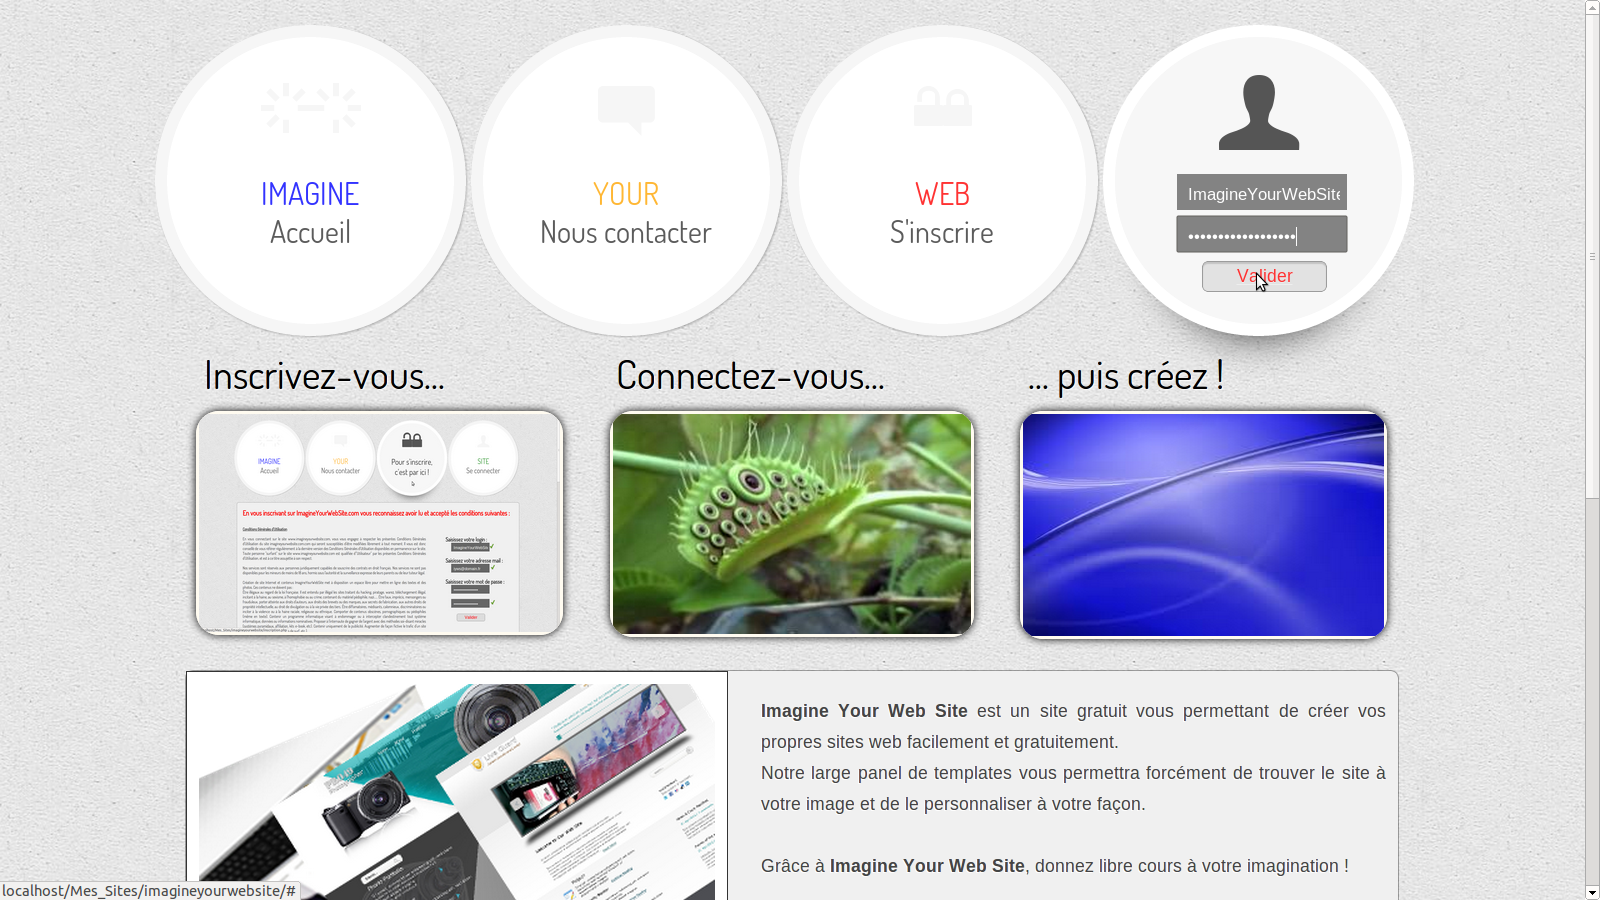
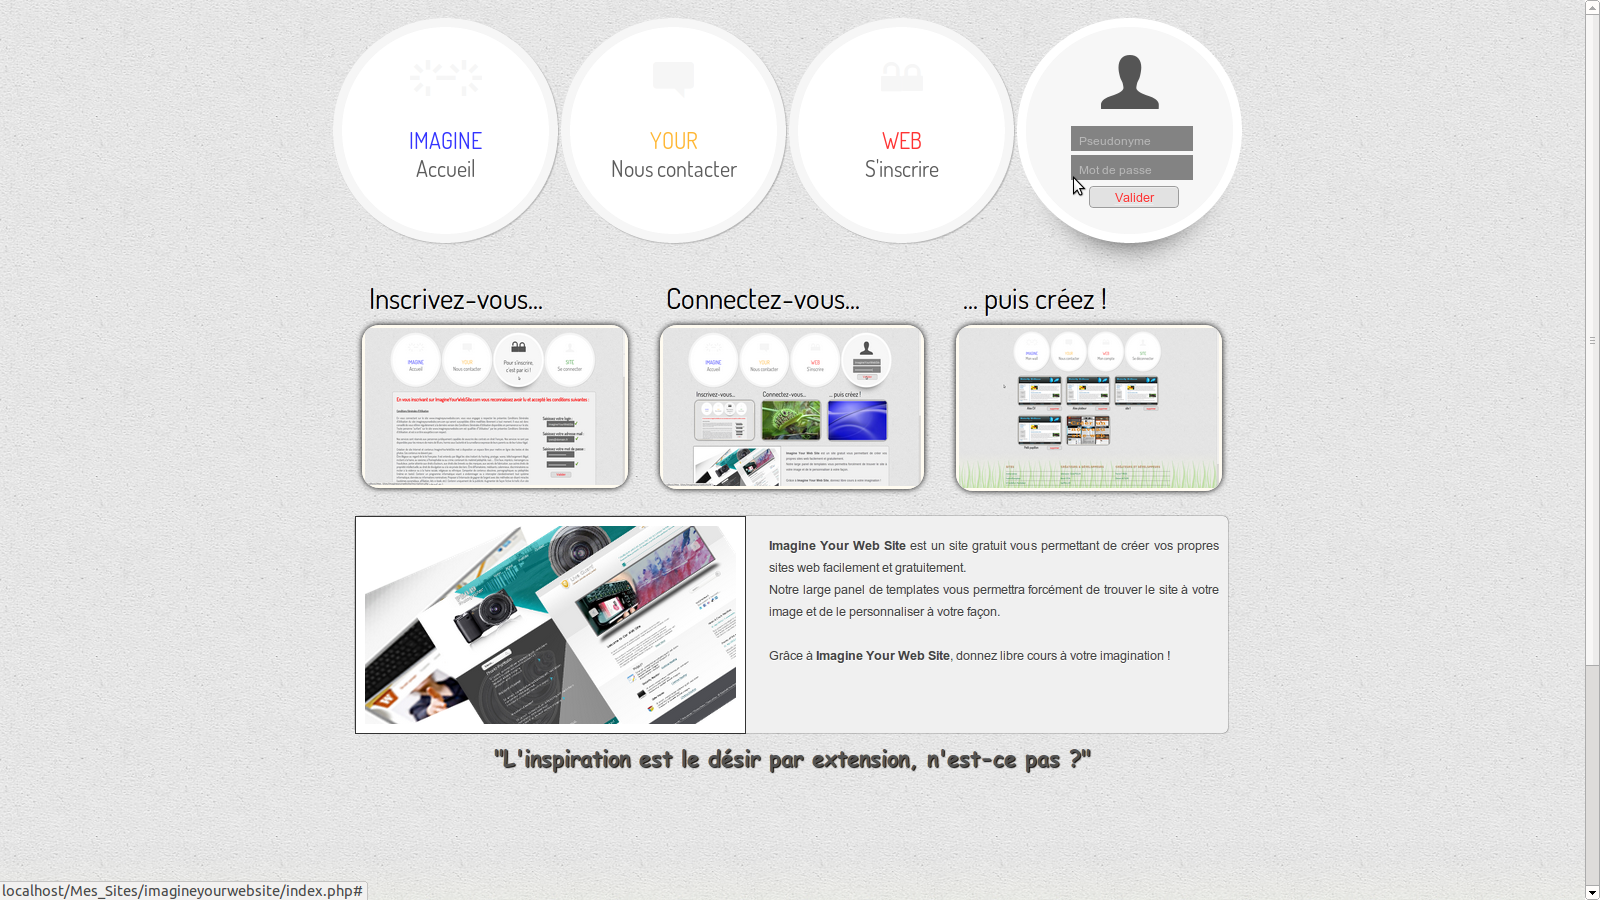
Projet tuteuré 1ère version finie et fonctionnelle

diff --git a/Generateur/js/webSite.js b/Generateur/js/webSite.js
@@ -45,6 +45,128 @@ function replaceInfo()
 
 function modifyField( id, text )
 {
-    var tab = ["title", "tagline", "sidebar", "section", "footer-outer-block"];
-    document.getElementById(tab[id]).innerHTML = text;
+    responseText = text.replace(/ /g, '&nbsp;');
+    responseText = responseText.replace(/\n/g, '<br />');
+    responseText = responseText.replace("<img&nbsp;src=", '<img src=');
+    document.getElementById(id).innerHTML = responseText;
+}
+
+
+//===================================================
+//               modifyBold( id )
+//---------------------------------------------------
+// Permet d'insérer les balises pour mettre les
+// caractères en gras.
+// id : valeur de l'id recherché
+// Appel : onClick(this.value) -> ../webSite.php
+//===================================================
+
+function modifyBold( id )
+{
+    document.getElementById(id).value += "<b></b>";
+}
+
+
+//===================================================
+//               modifyItalic( id )
+//---------------------------------------------------
+// Permet d'insérer les balises pour mettre les
+// caractères en italic.
+// id : valeur de l'id recherché
+// Appel : onClick(this.value) -> ../webSite.php
+//===================================================
+
+function modifyItalic( id )
+{
+    document.getElementById(id).value += "<em></em>";
+}
+
+
+//===================================================
+//               modifyUnderline( id )
+//---------------------------------------------------
+// Permet d'insérer les balises pour souligner les
+// caractères.
+// id : valeur de l'id recherché
+// Appel : onClick(this.value) -> ../webSite.php
+//===================================================
+
+function modifyUnderline( id )
+{
+    document.getElementById(id).value += "<u></u>";
+}
+
+
+//===================================================
+//               modifyImage( id )
+//---------------------------------------------------
+// Permet d'insérer les balises pour ajouter une
+// image.
+// id : valeur de l'id recherché
+// Appel : onClick(this.value) -> ../webSite.php
+//===================================================
+
+function modifyImage( id )
+{
+    document.getElementById(id).value += "<img src=''/>";
+}
+
+
+//===================================================
+//               saveInfos()
+//---------------------------------------------------
+// Permet de sauvegarder les modifications faites
+// Appel : onClick(this.value) -> ../webSite.php
+//===================================================
+
+function saveInfos()
+{
+    var title = document.getElementById("title").innerHTML;
+    var section = document.getElementById("section").innerHTML;
+    var nav = document.getElementById("sidebar").innerHTML;
+    var tagline =  document.getElementById("tagline").innerHTML;
+    var footer = document.getElementById("footer-outer-block").innerHTML;
+    var idInfo = document.getElementById("idInfo").value;
+
+    xmlhttp=new XMLHttpRequest();
+    xmlhttp.onreadystatechange=function()
+    {
+        if(xmlhttp.readyState==4 && xmlhttp.status==200)
+        {
+            var response = xmlhttp.responseText;
+
+            if( response == "success" )
+            {
+                alert( "Votre site web a bien ete enregistre." );
+            }
+            else
+            {
+                alert( "Une erreur s'est produite lors de l'enregistrement. Veuillez recommencer plus tard." );
+            }
+        }
+    }
+    xmlhttp.open("GET","js/respWebSite.php?action=saveInfos&title=" + encodeURIComponent(title) + "&section=" + encodeURIComponent(section) + "&nav=" + encodeURIComponent(nav) + "&tagline=" + encodeURIComponent(tagline) + "&footer=" + encodeURIComponent(footer) + "&idInfo=" + encodeURIComponent(idInfo),true);
+    xmlhttp.send();
+}
+
+
+//===================================================
+//               saveExit()
+//---------------------------------------------------
+// Permet de sauvegarder les modifications faites
+// si l'utilisateur quitte la page
+// Appel : onClick(this.value) -> ../webSite.php
+//===================================================
+
+function saveExit()
+{
+
+    var resp = confirm("Voulez-vous enregistrer les modifications avant de retourner sur votre wall ?")
+    
+    if( resp )
+    {
+        saveInfos();
+    }
+
+    location.href='wall.php';
 }

diff --git a/Generateur/webSite.php b/Generateur/webSite.php
@@ -37,48 +37,52 @@
 
                                              "
                                 >
+                                    <br />
                                     <tr>
                                         <td><label for="changeTitle">Titre :</label></td>
-                                        <td><input type="text" id="changeTitle" onKeyUp="modifyField(0, this.value);" value="' . $info->getTitle() . '" size="25" /><br /></td>
+                                        <td><input type="text" id="changeTitle" onKeyUp="modifyField(\'title\', this.value);" value="' . $info->getTitle() . '" size="25" /><br /></td>
                                     </tr>
                                     <tr>
                                         <td><label for="changeTagline">Phrase perso :</label></td>
-                                        <td><input type="text" id="changeTagline" onKeyUp="modifyField(1, this.value);" value="' . $info->getTagLine() . '" size="25" /><br /></td>
+                                        <td><input type="text" id="changeTagline" onKeyUp="modifyField(\'tagline\', this.value);" value="' . $info->getTagLine() . '" size="25" /><br /></td>
                                     </tr>
                                     <tr>
                                         <td><label for="changeNav">Section :</label></td>
-                                        <td><textarea id="changeNav" onKeyUp="modifyField(2, this.value);">' . $info->getNav() . '</textarea><br /></td>
+                                        <td><textarea id="changeNav" onKeyUp="modifyField(\'sidebar\', this.value);">' . $info->getNav() . '</textarea><br /></td>
                                         <td>
-                                            <img src="images/console_icons/text_bold.png" alt="bold" id="boldNav"/>
-                                            <img src="images/console_icons/text_italic.png" alt="italic" id="italicNav" />
-                                            <img src="images/console_icons/text_underline.png" alt="underline" id="underlineNav"/>
-                                            <img src="images/console_icons/image_add.png" alt="add image" id="imageNav"/>
-                                            <img src="images/console_icons/film.png" alt="film" id="filmNav"/>
+                                            <img src="images/console_icons/text_bold.png" onClick="modifyBold(\'changeNav\');" alt="bold" id="boldNav"/>
+                                            <img src="images/console_icons/text_italic.png" onClick="modifyItalic(\'changeNav\');" alt="italic" id="italicNav" />
+                                            <img src="images/console_icons/text_underline.png" onClick="modifyUnderline(\'changeNav\');" alt="underline" id="underlineNav"/>
+                                            <img src="images/console_icons/image_add.png" onClick="modifyImage(\'changeNav\');" alt="add image" id="imageNav"/>
                                         </td>
                                     </tr>
                                     <tr>
                                         <td><label for="changeSection">Corps du site :</label></td>
-                                        <td><textarea id="changeSection" onKeyUp="modifyField(3, this.value);">' . $info->getSection() . '</textarea><br /></td>
+                                        <td><textarea id="changeSection" onKeyUp="modifyField(\'section\', this.value);">' . $info->getSection() . '</textarea><br /></td>
                                         <td>
-                                            <img src="images/console_icons/text_bold.png" alt="bold" id="boldSection" />
-                                            <img src="images/console_icons/text_italic.png" alt="italic" id="italicSection" />
-                                            <img src="images/console_icons/text_underline.png" alt="underline" id="underlineSection"/>
-                                            <img src="images/console_icons/image_add.png" alt="add image" id="imageSection"/>
-                                            <img src="images/console_icons/film.png" alt="film" id="filmSection"/>
+                                            <img src="images/console_icons/text_bold.png" onClick="modifyBold(\'changeSection\');" alt="bold" id="boldSection" />
+                                            <img src="images/console_icons/text_italic.png" onClick="modifyItalic(\'changeSection\');" alt="italic" id="italicSection" />
+                                            <img src="images/console_icons/text_underline.png" onClick="modifyUnderline(\'changeSection\');" alt="underline" id="underlineSection"/>
+                                            <img src="images/console_icons/image_add.png" onClick="modifyImage(\'changeSection\');" alt="add image" id="imageSection"/>
                                         </td>
                                     </tr>
                                     <tr>
                                         <td><label for="changeFooter">Pied de page :</label></td>
-                                        <td><textarea id="changeFooter" onKeyUp="modifyField(4, this.value);">' . $info->getFooter() . '</textarea><br /></td>
+                                        <td><textarea id="changeFooter" onKeyUp="modifyField(\'footer-outer-block\', this.value);">' . $info->getFooter() . '</textarea><br /></td>
                                         <td>
-                                            <img src="images/console_icons/text_bold.png" alt="bold" id="boldFooter" />
-                                            <img src="images/console_icons/text_italic.png" alt="italic" id="italicFooter" />
-                                            <img src="images/console_icons/text_underline.png" alt="underline" id="underlineFooter"/>
-                                            <img src="images/console_icons/image_add.png" alt="add image" id="imageSection"/>
-                                            <img src="images/console_icons/film.png" alt="film" id="filmSection"/>
+                                            <img src="images/console_icons/text_bold.png" onClick="modifyBold(\'changeFooter\');" alt="bold" id="boldFooter" />
+                                            <img src="images/console_icons/text_italic.png" onClick="modifyItalic(\'changeFooter\');" alt="italic" id="italicFooter" />
+                                            <img src="images/console_icons/text_underline.png" alt="underline" onClick="modifyUnderline(\'changeFooter\');" id="underlineFooter"/>
+                                            <img src="images/console_icons/image_add.png" onClick="modifyImage(\'changeFooter\');" alt="add image" id="imageFooter"/>
                                         </td>
                                     </tr>
+                                    <tr>
+                                        <td><input type="button" value=" Quitter " onClick="saveExit();"/></a></td>
+                                        <td></td>
+                                        <td><input type="button" value=" Enregistrer " onClick="saveInfos();" /></td>
+                                    </tr>
                                 </table>
+                                <br />
                             </div>';
                 }
             }

diff --git a/Generateur/addWebSite.php b/Generateur/addWebSite.php
@@ -1,0 +1,31 @@
+<?php
+
+    session_start();
+
+    // Si aucune session n'est démarrée, alors on redirige vers l'index
+    if( !isset( $_SESSION['user'] ) )
+    {
+        header("Location: index.php");   
+    }
+
+    require_once "imagineyourwebsite.inc.php";
+    echo Layout::headerLogged('IYWS - Creer un site web');
+
+    echo "<h1 style='color:blue;text-align:center;'>Choisissez un design et créez votre site web !</h1>";
+
+    // On récupère la liste de tous les designs
+    $allDesign = IYWSDirectory::instance()->getAllDesign();
+
+    //Affichage des icônes des designs
+    echo '<main>';
+    foreach( $allDesign as $d )
+    {
+        echo    '<div class="abox">
+                    <a href="transitionAddWebSite.php?design=' . $d->getId() . '">
+                        <img src="images/' . $d->getImage() . '" alt=' . $d->getImage() . ' width="289" height="175" class="wallImg" />
+                    </a>
+                    <b>	
+                    	' . $d->getName() . ' 
+                    </b>
+                </div>';                         
+    }

diff --git a/Generateur/js/respWebSite.php b/Generateur/js/respWebSite.php
@@ -20,4 +20,31 @@
             echo "error";
         }
     }
+    else if( $_GET['action'] == "saveInfos" )
+    {
+        $title = (isset( $_GET['title'] )) ? $_GET['title'] : ""; 
+        $section = (isset( $_GET['section'] )) ? $_GET['section'] : ""; 
+        $nav = (isset( $_GET['nav'] )) ? $_GET['nav'] : ""; 
+        $tagline = (isset( $_GET['tagline'] )) ? $_GET['tagline'] : ""; 
+        $footer = (isset( $_GET['footer'] )) ? $_GET['footer'] : ""; 
+        $idInfo = (isset( $_GET['idInfo'] )) ? $_GET['idInfo'] : ""; 
+
+        $info = new IYWSInformation( $idInfo );
+        $confirm = $info    ->setTitle( $title )
+                            ->setSection( $section )
+                            ->setNav( $nav )
+                            ->setTagline( $tagline )
+                            ->setFooter( $footer )
+                            ->store();
+
+        if( $confirm )
+        {
+            echo "success";
+        }
+        else
+        {
+            echo "error";
+        }
+
+    }
 ?>

diff --git a/Generateur/wall.php b/Generateur/wall.php
@@ -49,16 +49,17 @@
                             </b>
                             &nbsp
                             &nbsp
-                            <input type="submit" value="supprimer" style="color:red;" onClick="validDeleteWebsite('.$i->getId().');"/>
-                            
+                            <input type="submit" value="supprimer" style="color:red;" onClick="validDeleteWebsite('.$i->getId().');"/>                            
                         </div>';               
-            }
-            
-            
+            }          
         }
                 
     }
-    echo '</main>';
+    echo '<div class="abox">
+            <a href="addWebSite.php">
+                <img src="images/newWebSite.png" alt="addWebSite" width="289" height="175" class="wallImg" />
+            </a>
+          </div></main>';
     
     echo '<script type="text/javascript" src="js/deleteWebsite.js"></script>';
 

diff --git a/Generateur/Class/Layout.class.php b/Generateur/Class/Layout.class.php
@@ -136,7 +136,8 @@ class Layout
                                                 <h2 class="ca-main"><span style="color:blue;">IMAGINE</span><br />Mon wall</h2>
                                                 <h3 class="ca-sub">Accès à mes sites.</h3>
                                             </div>
-                                        </a>                    </li>
+                                        </a>
+                                    </li>
                                     <li>
                                         <a href="mailto:elodie16.p@gmail.com">
                                             <span class="ca-icon">c</span>

diff --git a/Generateur/transitionAddWebSite.php b/Generateur/transitionAddWebSite.php
@@ -1,0 +1,17 @@
+<?php
+
+    session_start();
+
+    // Si l'utilisateur a bien démarré une session, on le redirige vers son wall
+    if( !isset($_SESSION['user']) && !isset($_GET['design']) )
+    {
+        header("Location: index.php");   
+    }
+
+    require_once "imagineyourwebsite.inc.php";
+
+    $design = isset( $_GET['design'] ) ? $_GET['design'] : 1;
+    $user = new IYWSUser( $_SESSION['user'] );
+    $info = $user->addInformations("", "", "", "", "", $design );
+
+    header("Location: webSite.php?design=" . $design . "&info=" . $info->getId() );   

diff --git a/Generateur/index.php b/Generateur/index.php
@@ -39,7 +39,7 @@
         <!-- Image 3 -->    
         <div class="abox">
             <h1>... puis créez !</h1>
-            <img src="images/nas.jpg" alt="I love graphic" width="289" height="178" />
+            <img src="images/creation-img.png" alt="I love graphic" width="289" height="178" />
         </div>   
     </main>
 

diff --git a/Generateur/Class/lib/IYWSLibrary/IYWSInformation.php b/Generateur/Class/lib/IYWSLibrary/IYWSInformation.php
@@ -186,7 +186,6 @@ class IYWSInformation extends IYWSDatabase
                                                             . "WHERE id_info=" . $this->db->quote($this->id) 
                                         );
 
-                var_dump($query);
 			    $this->error = IYWS_OK;
 			    return true;
             }
